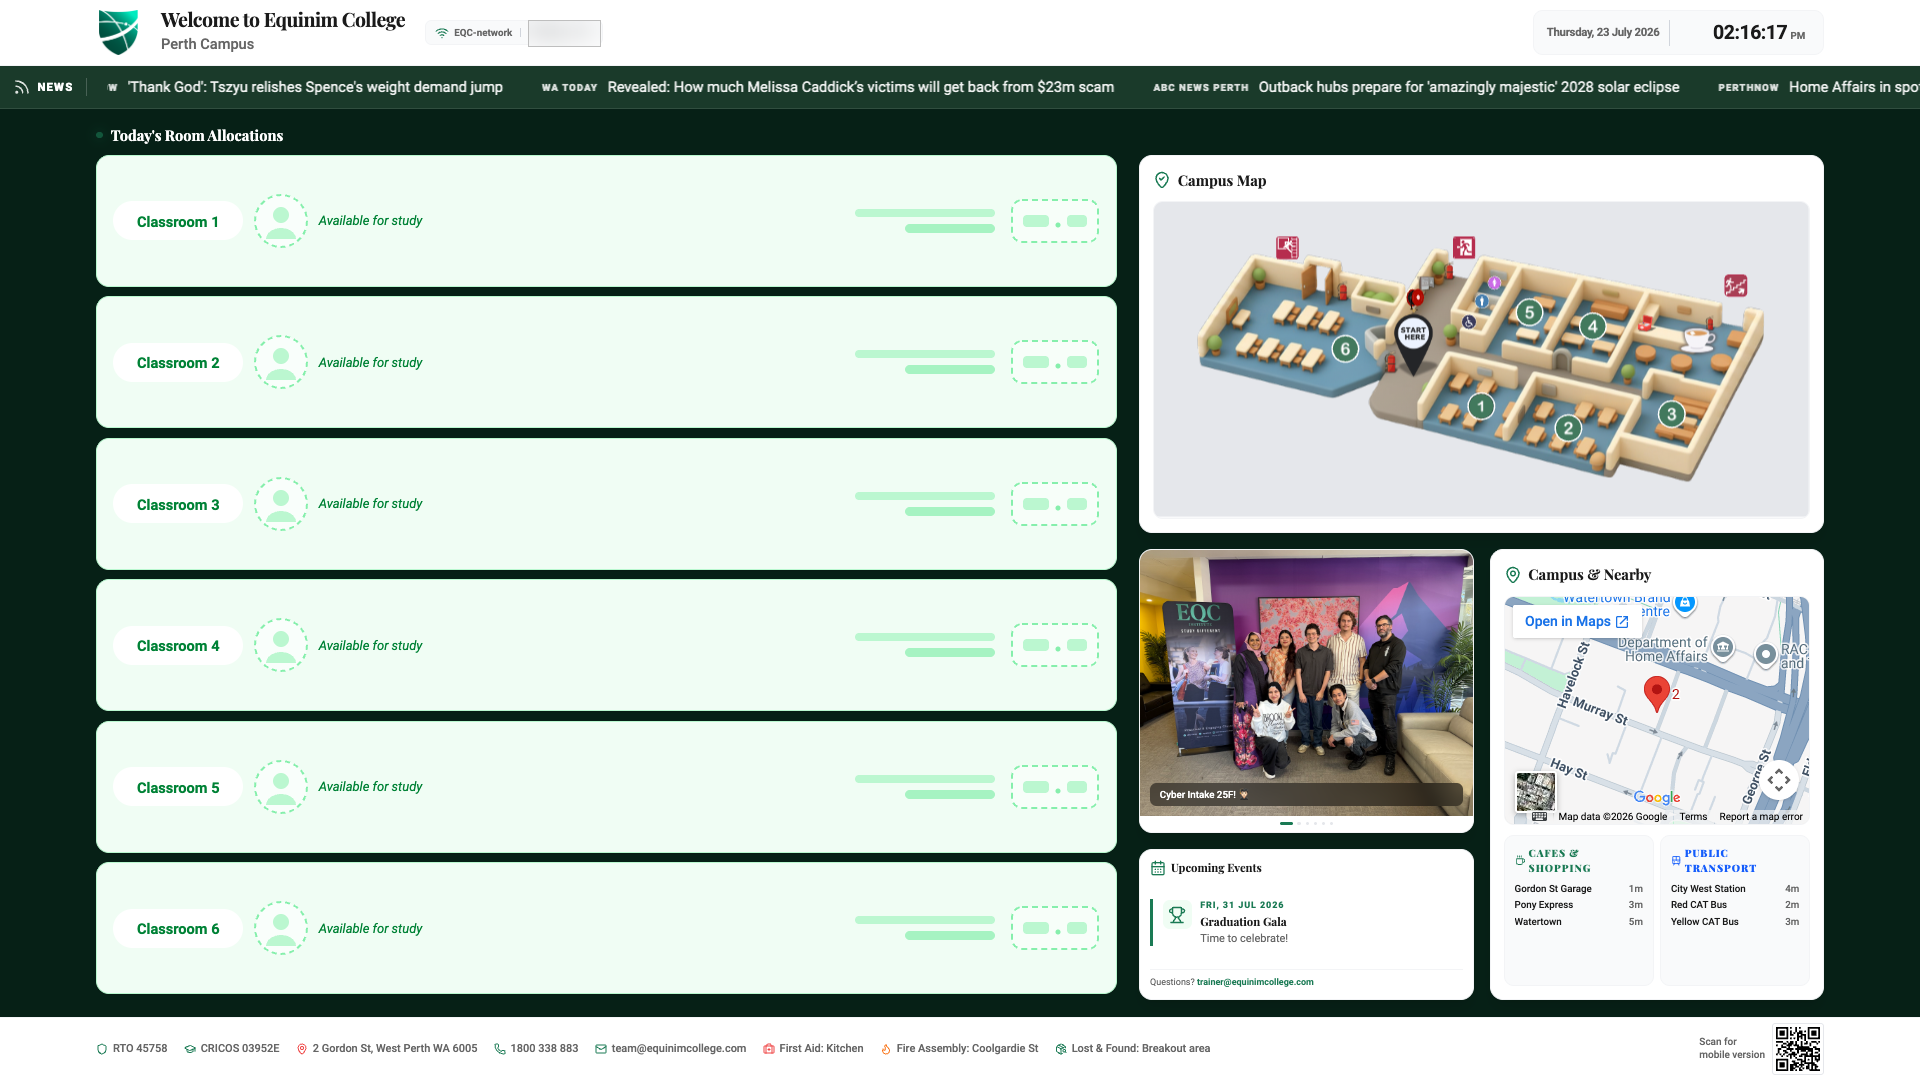
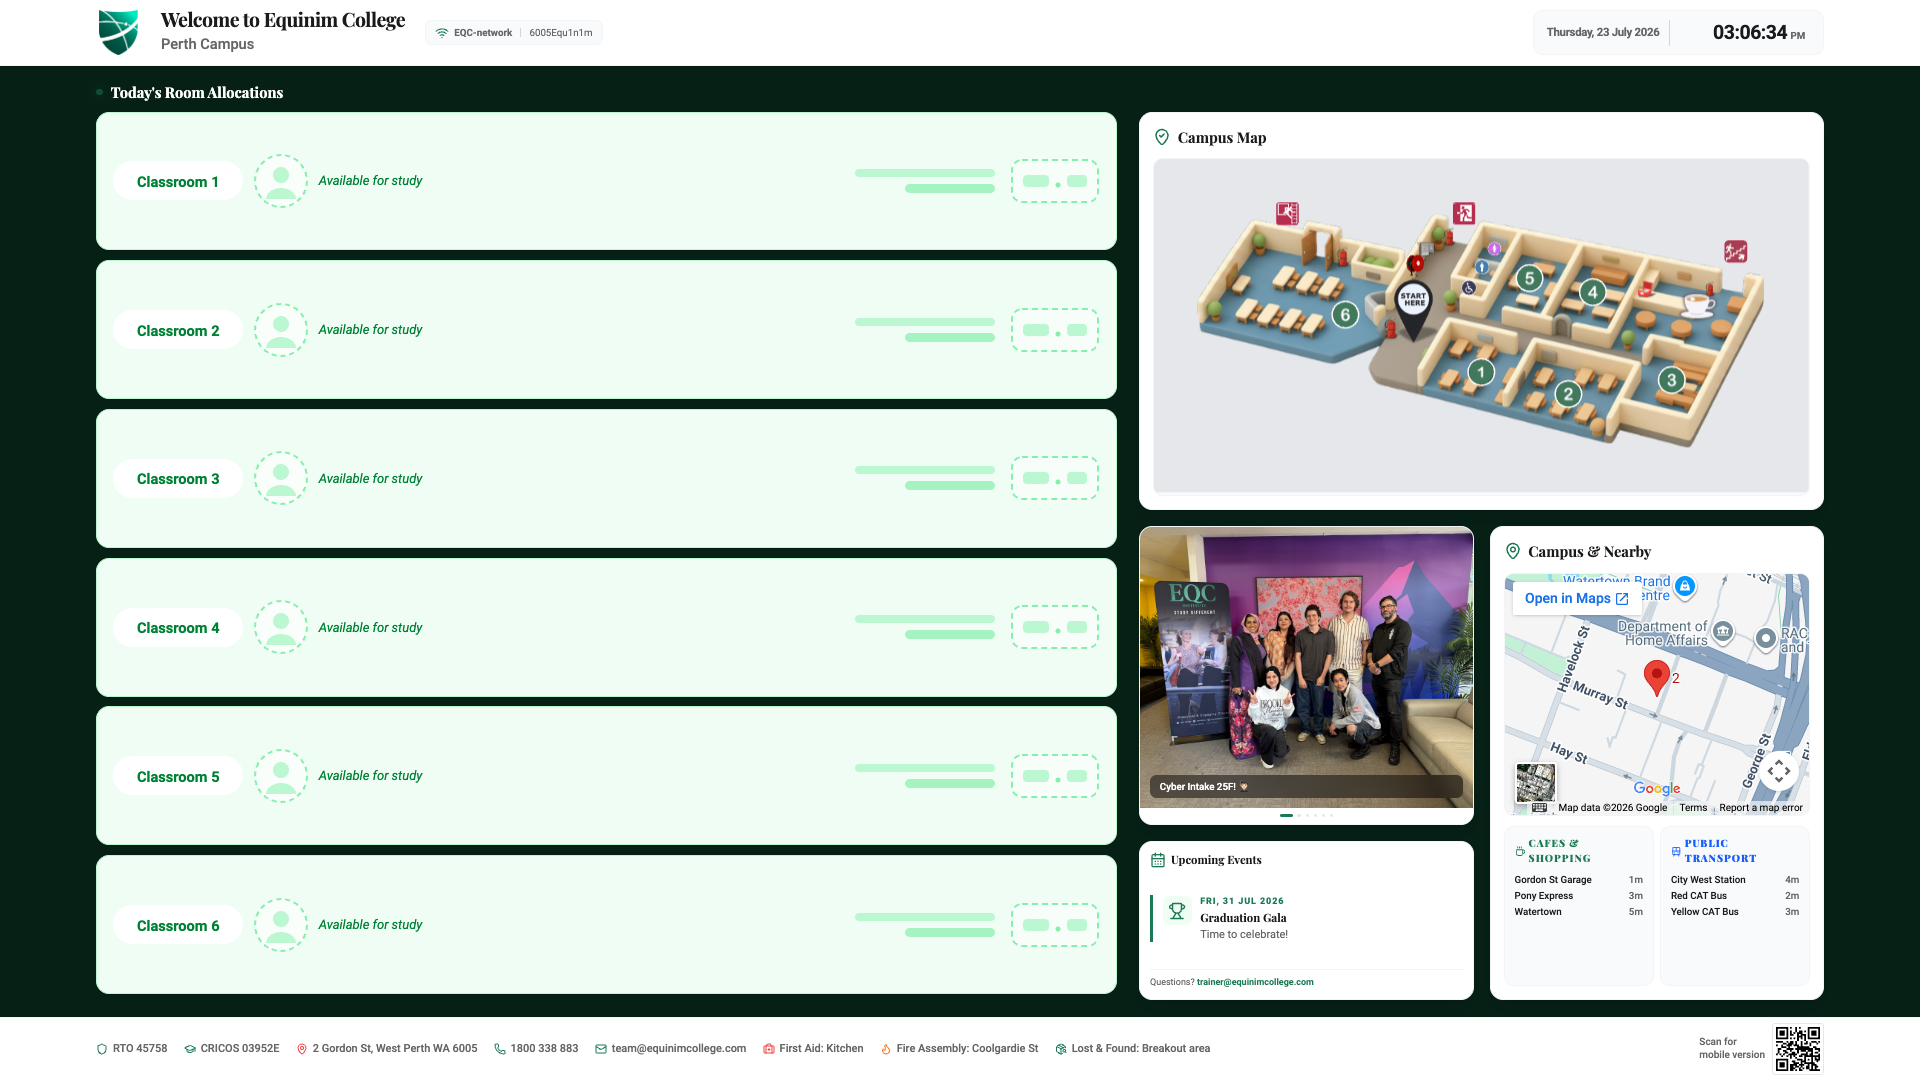
Rebuild EQC featured layout; restore WiFi info; add See You Next Tuesday
Featured build now mirrors how the system is actually used:
- Lobby board moved to the top at full width inside a wall-mounted TV bezel
  (dark frame, screen glare, power LED, wall shadow) so the screenshot is
  large and reads as the fixed 16:9 lobby display it is
- Admin panel is a vertical scroll-snap carousel through 7 tabs — rooms,
  events, alerts, carousel, intakes, RSS, settings — with up/down controls,
  dots, a live-region label, keyboard arrows, and auto-advance that pauses on
  hover/focus and stays off entirely under prefers-reduced-motion
- Added the trainer sign-on page (phone-first) — it's the link that makes the
  system make sense: sign on at the door, lobby board updates in real time
- Campus companion unchanged

Two carousel fixes found in testing: slides used height:100% against an
auto-height track, so the next slide peeked in — now aspect-ratio matched to
the viewport. And both goTo() and the IntersectionObserver wrote the index,
so the label could read one slide ahead mid-scroll — the observer is now the
sole owner of displayed state.

Also: WiFi details restored on the lobby screenshot per Tim, and See You Next
Tuesday added to games (6 projects, 25 total).

Admin tabs were captured from a session already present in the browser; no
password was entered. Trainers and Sign-On Log are deliberately not shown —
they hold trainer names, personal passwords and attendance records.

Changed region(s): [[0.0, 0.0611, 1.0, 0.8861]]

diff --git a/work.html b/work.html
@@ -80,25 +80,63 @@
             <a class="btn btn-primary btn-arrow" href="https://www.perth-eqc.xyz" rel="noopener">Visit the dashboard<span class="visually-hidden"> (opens external site)</span></a>
           </div>
         </div>
-        <div class="device-grid">
-          <div class="device device-tv">
-            <img src="/assets/img/portfolio/eqc-welcome-tv.png" alt="EQC welcome board on a wall-mounted screen: room allocations, campus map, news ticker and upcoming events" loading="lazy">
-            <span class="device-label">Wall-mounted TV · fixed 16:9</span>
-            <h3>Lobby welcome board</h3>
-            <p>Built for one fixed screen in the lobby — no scrolling, no interaction. Everything sits in a single 1080p frame and stays readable from across the room: room allocations, campus map, live clock, news ticker and a QR code to the mobile version.</p>
+        <!-- the lobby board, in the fixed wall-mounted screen it was built for -->
+        <div class="tv-mount">
+          <figure class="tv-frame reveal">
+            <div class="tv-screen">
+              <img src="/assets/img/portfolio/eqc-welcome-tv.png" alt="EQC lobby welcome board: room allocations down the left, campus map, photo carousel, upcoming events, live clock and a rolling news ticker" loading="lazy">
+              <span class="tv-led" aria-hidden="true"></span>
+            </div>
+            <figcaption class="tv-caption">Wall-mounted in the campus lobby · fixed 1920 × 1080</figcaption>
+          </figure>
+          <div style="max-width:74ch; margin:22px auto 0; text-align:center;">
+            <h3 style="font-size:var(--step-2);">Lobby welcome board</h3>
+            <p style="color:var(--cy-lilac); margin:8px auto 0;">Designed for one screen that never moves and nobody touches. Everything lives in a single 1080p frame and stays legible from across the room — room allocations, campus map, live clock, rolling news ticker, photo carousel and a QR code that hands the visitor the mobile version.</p>
           </div>
-          <div class="device device-tablet">
-            <img src="/assets/img/portfolio/eqc-admin.png" alt="EQC admin panel login screen shown at tablet width" loading="lazy">
+        </div>
+
+        <div class="device-grid">
+
+          <!-- admin panel: vertical carousel through the tabs -->
+          <div class="device device-admin">
+            <div class="carousel" data-carousel>
+              <div class="carousel-viewport" tabindex="0" role="group" aria-roledescription="carousel" aria-label="Admin panel tabs">
+                <ul class="carousel-track">
+                  <li class="carousel-slide"><img src="/assets/img/portfolio/eqc-admin-rooms.png" alt="Admin panel: Manage Room Allocations, a table of rooms with trainer, status, course, intake and topic" loading="lazy"><span class="slide-tag">Rooms</span></li>
+                  <li class="carousel-slide"><img src="/assets/img/portfolio/eqc-admin-events.png" alt="Admin panel: Manage Events, adding upcoming events to the lobby board" loading="lazy"><span class="slide-tag">Events</span></li>
+                  <li class="carousel-slide"><img src="/assets/img/portfolio/eqc-admin-alerts.png" alt="Admin panel: Manage Alerts, scrolling announcements with colour and speed controls" loading="lazy"><span class="slide-tag">Alerts</span></li>
+                  <li class="carousel-slide"><img src="/assets/img/portfolio/eqc-admin-carousel.png" alt="Admin panel: Campus Life Carousel, drag-to-reorder campus photos" loading="lazy"><span class="slide-tag">Carousel</span></li>
+                  <li class="carousel-slide"><img src="/assets/img/portfolio/eqc-admin-intakes.png" alt="Admin panel: Intake Management, adding intakes for the room dropdowns" loading="lazy"><span class="slide-tag">Intakes</span></li>
+                  <li class="carousel-slide"><img src="/assets/img/portfolio/eqc-admin-rss.png" alt="Admin panel: RSS Feeds and ticker controls with feed selection and speed settings" loading="lazy"><span class="slide-tag">RSS feeds</span></li>
+                  <li class="carousel-slide"><img src="/assets/img/portfolio/eqc-admin-settings.png" alt="Admin panel: Global Settings for carousel timing and daily reset" loading="lazy"><span class="slide-tag">Settings</span></li>
+                </ul>
+              </div>
+              <div class="carousel-ui">
+                <button type="button" data-carousel-prev aria-label="Previous admin tab">&uarr;</button>
+                <p class="carousel-status" data-carousel-status aria-live="polite">Rooms · 1 of 7</p>
+                <button type="button" data-carousel-next aria-label="Next admin tab">&darr;</button>
+              </div>
+              <div class="carousel-dots" data-carousel-dots aria-hidden="true"></div>
+            </div>
             <span class="device-label">Responsive · any device</span>
             <h3>Admin panel</h3>
-            <p>Fully responsive, because trainers open it wherever they are — laptop at the desk, iPad in the corridor, phone between classes. Admins sign in with a universal password; trainers get their own.</p>
+            <p>Nine tabs behind a login, fully responsive because trainers open it wherever they are — laptop at the desk, iPad in the corridor, phone between classes. Rooms, events, alerts, the photo carousel, intakes, RSS ticker and global settings all write straight to the lobby board.</p>
           </div>
+
+          <div class="device device-phone">
+            <img src="/assets/img/portfolio/eqc-trainer-signon.png" alt="Trainer sign-on page on a phone: trainer, room, course, intake and today's topic, with a Sign On and Update Board button" loading="lazy">
+            <span class="device-label">Smartphone-first</span>
+            <h3>Trainer sign-on</h3>
+            <p>The bit that ties it together. A trainer signs on from their phone at the classroom door — name, room, course, intake, today's topic — and the lobby board updates in real time.</p>
+          </div>
+
           <div class="device device-phone">
             <img src="/assets/img/portfolio/eqc-mobile.png" alt="EQC campus companion on a phone: address, contacts, room availability and events with a bottom tab bar" loading="lazy">
             <span class="device-label">Smartphone-first</span>
             <h3>Campus companion</h3>
-            <p>The phone view students and trainers actually carry. Thumb-reachable bottom tabs, room availability, maps, emergency info and contacts — designed for a phone first, not shrunk down to one.</p>
+            <p>The phone view students and visitors actually carry, reached by scanning the QR on the board. Thumb-reachable bottom tabs, room availability, maps, emergency info and contacts.</p>
           </div>
+
         </div>
       </article>
     </div>
@@ -368,7 +406,7 @@
     <div class="wrap">
       <div class="section-head">
         <p class="kicker">Category 04</p>
-        <h2 id="interactive-title">Games &amp; interactive<span class="count-chip">5 projects</span></h2>
+        <h2 id="interactive-title">Games &amp; interactive<span class="count-chip">6 projects</span></h2>
         <p>Where the experiments live. Built fast, usually for a class or a celebration — and genuinely useful for pressure-testing an idea before it goes near client work.</p>
       </div>
       <div class="grid-3">
@@ -379,6 +417,15 @@
             <h3>Scwerdiality</h3>
             <p>An Aussie word-search game with a timer, scoring and a very red grid.</p>
             <a class="card-link" href="https://skwerdiality-game.vercel.app" rel="noopener">Play<span class="visually-hidden"> Scwerdiality (opens external site)</span> &rarr;</a>
+          </div>
+        </article>
+
+        <article class="card project-mini reveal">
+          <img src="/assets/img/portfolio/see-you-next-tuesday.png" alt="See You Next Tuesday party game join screen with a room code field" loading="lazy">
+          <div class="project-body">
+            <h3>See You Next Tuesday</h3>
+            <p>A bluffing party game with a big-screen host mode and phone join codes — spot the truth, fool your mates.</p>
+            <a class="card-link" href="https://see-you-next-tuesday-six.vercel.app" rel="noopener">Play<span class="visually-hidden"> See You Next Tuesday (opens external site)</span> &rarr;</a>
           </div>
         </article>
 

diff --git a/assets/css/styles.css b/assets/css/styles.css
@@ -355,7 +355,67 @@ a:hover { color: var(--cerise); }
 .case-study .case-head p { color: var(--cy-lilac); }
 .case-study .kicker { color: var(--cy-lilac); }
 .case-study .kicker::before { background: var(--marigold); }
-.device-grid { display: grid; grid-template-columns: repeat(3, minmax(0, 1fr)); gap: 18px; padding: 0 clamp(26px, 4vw, 44px) clamp(26px, 4vw, 44px); }
+/* --- wall-mounted TV frame: the lobby board's real-world context --- */
+.tv-mount { padding: 0 clamp(26px, 4vw, 44px) clamp(24px, 3vw, 34px); }
+.tv-frame {
+  position: relative; border-radius: 16px; padding: clamp(10px, 1.2vw, 16px);
+  background: linear-gradient(180deg, #34323A 0%, #1B1A1F 55%, #121116 100%);
+  box-shadow:
+    0 50px 80px -34px rgba(0, 0, 0, 0.75),   /* cast onto the wall */
+    0 8px 0 -2px rgba(0, 0, 0, 0.35),
+    inset 0 1px 0 rgba(255, 255, 255, 0.16);
+}
+.tv-screen { position: relative; border-radius: 5px; overflow: hidden; background: #000; }
+.tv-screen img { display: block; width: 100%; aspect-ratio: 16 / 9; object-fit: cover; object-position: top; }
+/* screen glare */
+.tv-screen::after {
+  content: ""; position: absolute; inset: 0; pointer-events: none;
+  background: linear-gradient(104deg, rgba(255, 255, 255, 0.11) 0%, rgba(255, 255, 255, 0.03) 34%, rgba(255, 255, 255, 0) 56%);
+}
+.tv-led {
+  position: absolute; left: 50%; bottom: 4px; transform: translateX(-50%);
+  width: 6px; height: 6px; border-radius: 50%; background: #56E08B; box-shadow: 0 0 9px #56E08B;
+}
+.tv-caption {
+  display: flex; align-items: center; justify-content: center; gap: 10px;
+  margin-top: 16px; font-size: 0.78rem; font-weight: 700; letter-spacing: 0.12em;
+  text-transform: uppercase; color: var(--marigold); text-align: center;
+}
+.tv-caption::before, .tv-caption::after { content: ""; width: 26px; height: 2px; background: rgba(255, 255, 255, 0.28); }
+
+/* --- vertical carousel (admin panel tabs) --- */
+.carousel { display: flex; flex-direction: column; height: 100%; }
+.carousel-viewport {
+  position: relative; border-radius: 10px; overflow: hidden; background: #0E0A12;
+  aspect-ratio: 16 / 10;
+  overflow-y: auto; scroll-snap-type: y mandatory; scrollbar-width: none;
+}
+.carousel-viewport::-webkit-scrollbar { display: none; }
+.carousel-track { list-style: none; margin: 0; padding: 0; }
+/* aspect-ratio, not height:100% — the track is auto-height, so a percentage
+   height is circular and leaves the next slide peeking in */
+.carousel-slide { position: relative; aspect-ratio: 16 / 10; scroll-snap-align: start; scroll-snap-stop: always; }
+.carousel-slide img { width: 100%; height: 100%; object-fit: cover; object-position: top left; display: block; }
+.carousel-slide .slide-tag {
+  position: absolute; left: 10px; bottom: 10px;
+  font-size: 0.7rem; font-weight: 700; letter-spacing: 0.1em; text-transform: uppercase;
+  background: rgba(18, 10, 24, 0.86); color: #fff; padding: 5px 11px; border-radius: var(--r-pill);
+  backdrop-filter: blur(4px);
+}
+.carousel-ui { display: flex; align-items: center; gap: 10px; margin-top: 12px; }
+.carousel-ui button {
+  flex: none; width: 34px; height: 34px; border-radius: 50%; cursor: pointer;
+  background: rgba(255, 255, 255, 0.12); color: #fff; font-size: 0.95rem; line-height: 1;
+  border: 1.5px solid rgba(255, 255, 255, 0.3);
+  transition: background 0.15s ease;
+}
+.carousel-ui button:hover { background: rgba(255, 255, 255, 0.26); }
+.carousel-status { font-size: 0.78rem; font-weight: 600; color: var(--cy-lilac); flex: 1; text-align: center; }
+.carousel-dots { display: flex; justify-content: center; gap: 6px; margin-top: 10px; }
+.carousel-dots i { width: 6px; height: 6px; border-radius: 50%; background: rgba(255, 255, 255, 0.28); transition: background 0.2s ease, transform 0.2s ease; }
+.carousel-dots i.on { background: var(--marigold); transform: scale(1.4); }
+
+.device-grid { display: grid; grid-template-columns: 1.7fr 1fr 1fr; gap: 18px; padding: 0 clamp(26px, 4vw, 44px) clamp(26px, 4vw, 44px); align-items: start; }
 .device {
   background: rgba(255, 255, 255, 0.07); border-radius: 16px; padding: 16px;
   box-shadow: inset 0 0 0 1px rgba(255, 255, 255, 0.18);
@@ -373,7 +433,8 @@ a:hover { color: var(--cerise); }
 .device-tv img { aspect-ratio: 16 / 9; object-fit: cover; object-position: top; }
 .device-tablet img { aspect-ratio: 4 / 5; object-fit: cover; object-position: top; }
 .device-phone img { aspect-ratio: 9 / 16; object-fit: cover; object-position: top; }
-@media (max-width: 820px) { .device-grid { grid-template-columns: 1fr; } }
+@media (max-width: 980px) { .device-grid { grid-template-columns: 1fr 1fr; } .device-admin { grid-column: 1 / -1; } }
+@media (max-width: 700px) { .device-grid { grid-template-columns: 1fr; } .device-admin { grid-column: auto; } }
 
 /* work page category nav */
 .cat-nav { position: sticky; top: 69px; z-index: 90; background: rgba(255, 248, 239, 0.95); backdrop-filter: blur(8px); border-bottom: 1px solid rgba(42, 30, 63, 0.09); overflow-x: auto; }

diff --git a/assets/js/main.js b/assets/js/main.js
@@ -61,6 +61,78 @@
     map.forEach((_link, section) => spy.observe(section));
   }
 
+  /* ----- vertical carousel (admin panel tabs) -----
+     Scroll-snap does the moving; JS only drives the controls, the live status
+     and auto-advance. Auto-advance stays off under reduced-motion and pauses
+     on hover/focus or any manual interaction. */
+  document.querySelectorAll('[data-carousel]').forEach((root) => {
+    const viewport = root.querySelector('.carousel-viewport');
+    const slides = [...root.querySelectorAll('.carousel-slide')];
+    const status = root.querySelector('[data-carousel-status]');
+    const dotsBox = root.querySelector('[data-carousel-dots]');
+    if (!viewport || !slides.length) return;
+
+    const labelFor = (i) => slides[i].querySelector('.slide-tag')?.textContent.trim() || `Slide ${i + 1}`;
+    let index = 0;
+    let paused = false;
+
+    const dots = slides.map((_, i) => {
+      const d = document.createElement('i');
+      if (dotsBox) dotsBox.appendChild(d);
+      return d;
+    });
+
+    const render = () => {
+      if (status) status.textContent = `${labelFor(index)} · ${index + 1} of ${slides.length}`;
+      dots.forEach((d, i) => d.classList.toggle('on', i === index));
+    };
+
+    // goTo only moves the viewport. The IntersectionObserver below owns the
+    // displayed state — otherwise both write `index` and the label can read a
+    // slide ahead of the one actually on screen mid-scroll.
+    const hasIO = 'IntersectionObserver' in window;
+    const goTo = (i, smooth = true) => {
+      const target = (i + slides.length) % slides.length;
+      viewport.scrollTo({ top: slides[target].offsetTop, behavior: smooth && !reduceMotion ? 'smooth' : 'auto' });
+      if (!hasIO) { index = target; render(); }
+    };
+
+    root.querySelector('[data-carousel-prev]')?.addEventListener('click', () => { paused = true; goTo(index - 1); });
+    root.querySelector('[data-carousel-next]')?.addEventListener('click', () => { paused = true; goTo(index + 1); });
+
+    viewport.addEventListener('keydown', (e) => {
+      if (e.key === 'ArrowDown' || e.key === 'ArrowRight') { e.preventDefault(); paused = true; goTo(index + 1); }
+      if (e.key === 'ArrowUp' || e.key === 'ArrowLeft') { e.preventDefault(); paused = true; goTo(index - 1); }
+    });
+
+    // sole owner of the displayed state — also keeps the label honest when the
+    // user swipes or scrolls the viewport directly
+    if (hasIO) {
+      const io = new IntersectionObserver((entries) => {
+        entries.forEach((entry) => {
+          if (entry.isIntersecting) {
+            const i = slides.indexOf(entry.target);
+            if (i > -1 && i !== index) { index = i; render(); }
+          }
+        });
+      }, { root: viewport, threshold: 0.6 });
+      slides.forEach((s) => io.observe(s));
+    }
+
+    ['pointerenter', 'focusin', 'pointerdown'].forEach((ev) => root.addEventListener(ev, () => { paused = true; }));
+    root.addEventListener('pointerleave', () => { paused = false; });
+
+    render();
+
+    if (!reduceMotion) {
+      setInterval(() => {
+        if (paused || document.hidden) return;
+        if (!viewport.getBoundingClientRect().height) return;
+        goTo(index + 1);
+      }, 3800);
+    }
+  });
+
   /* ----- contact form submit state ----- */
   const form = document.querySelector('form[data-enhance]');
   if (form) {
